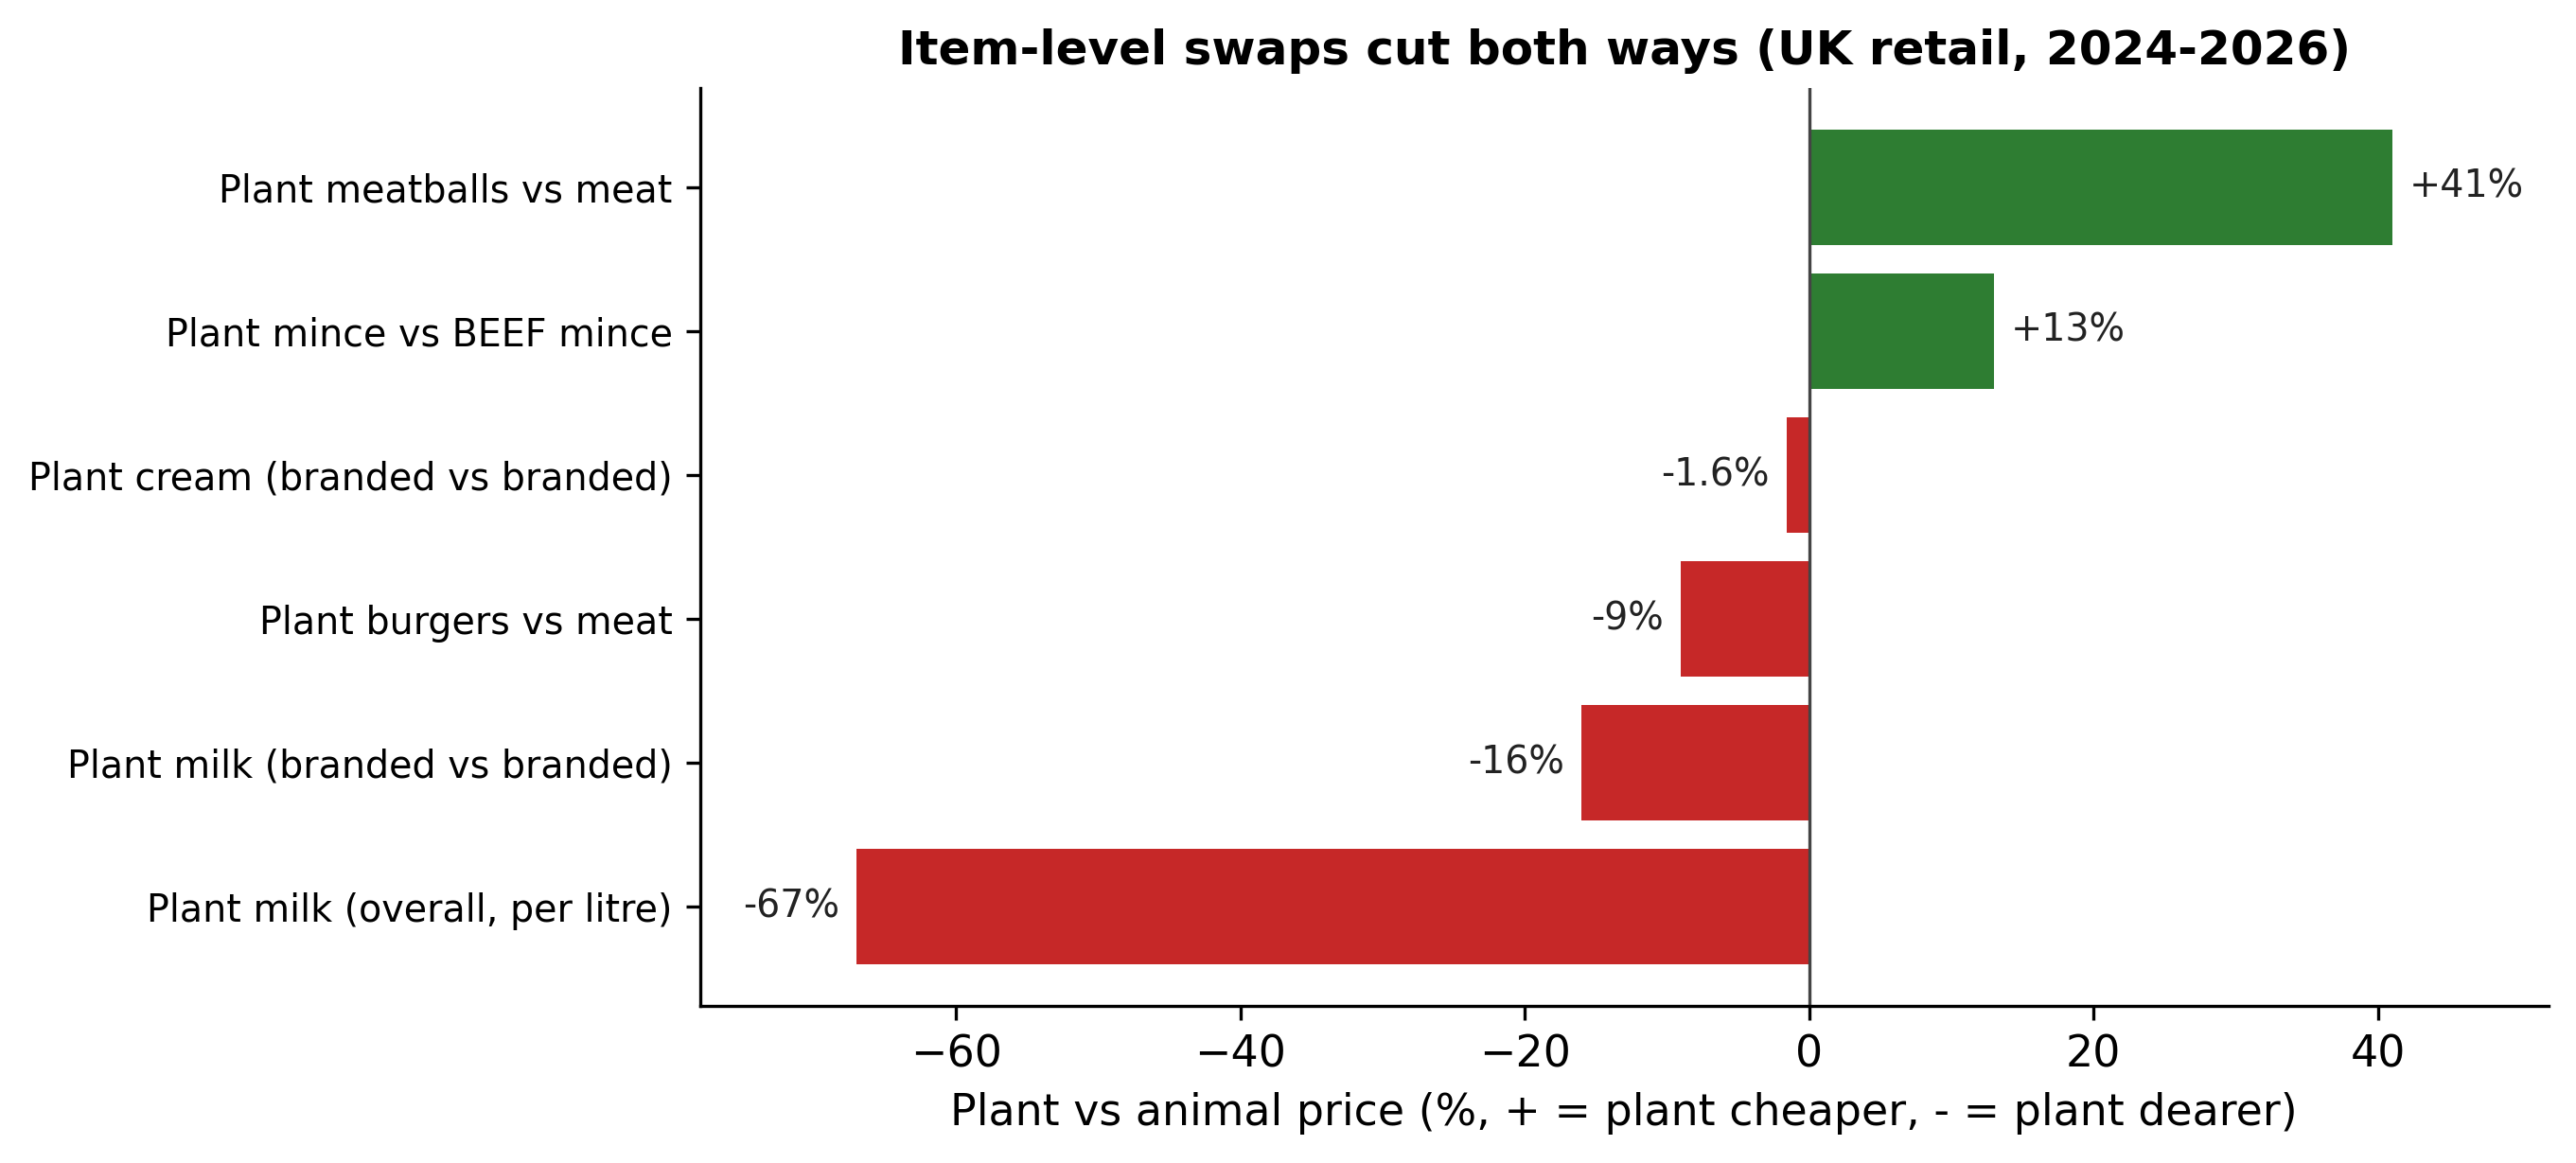
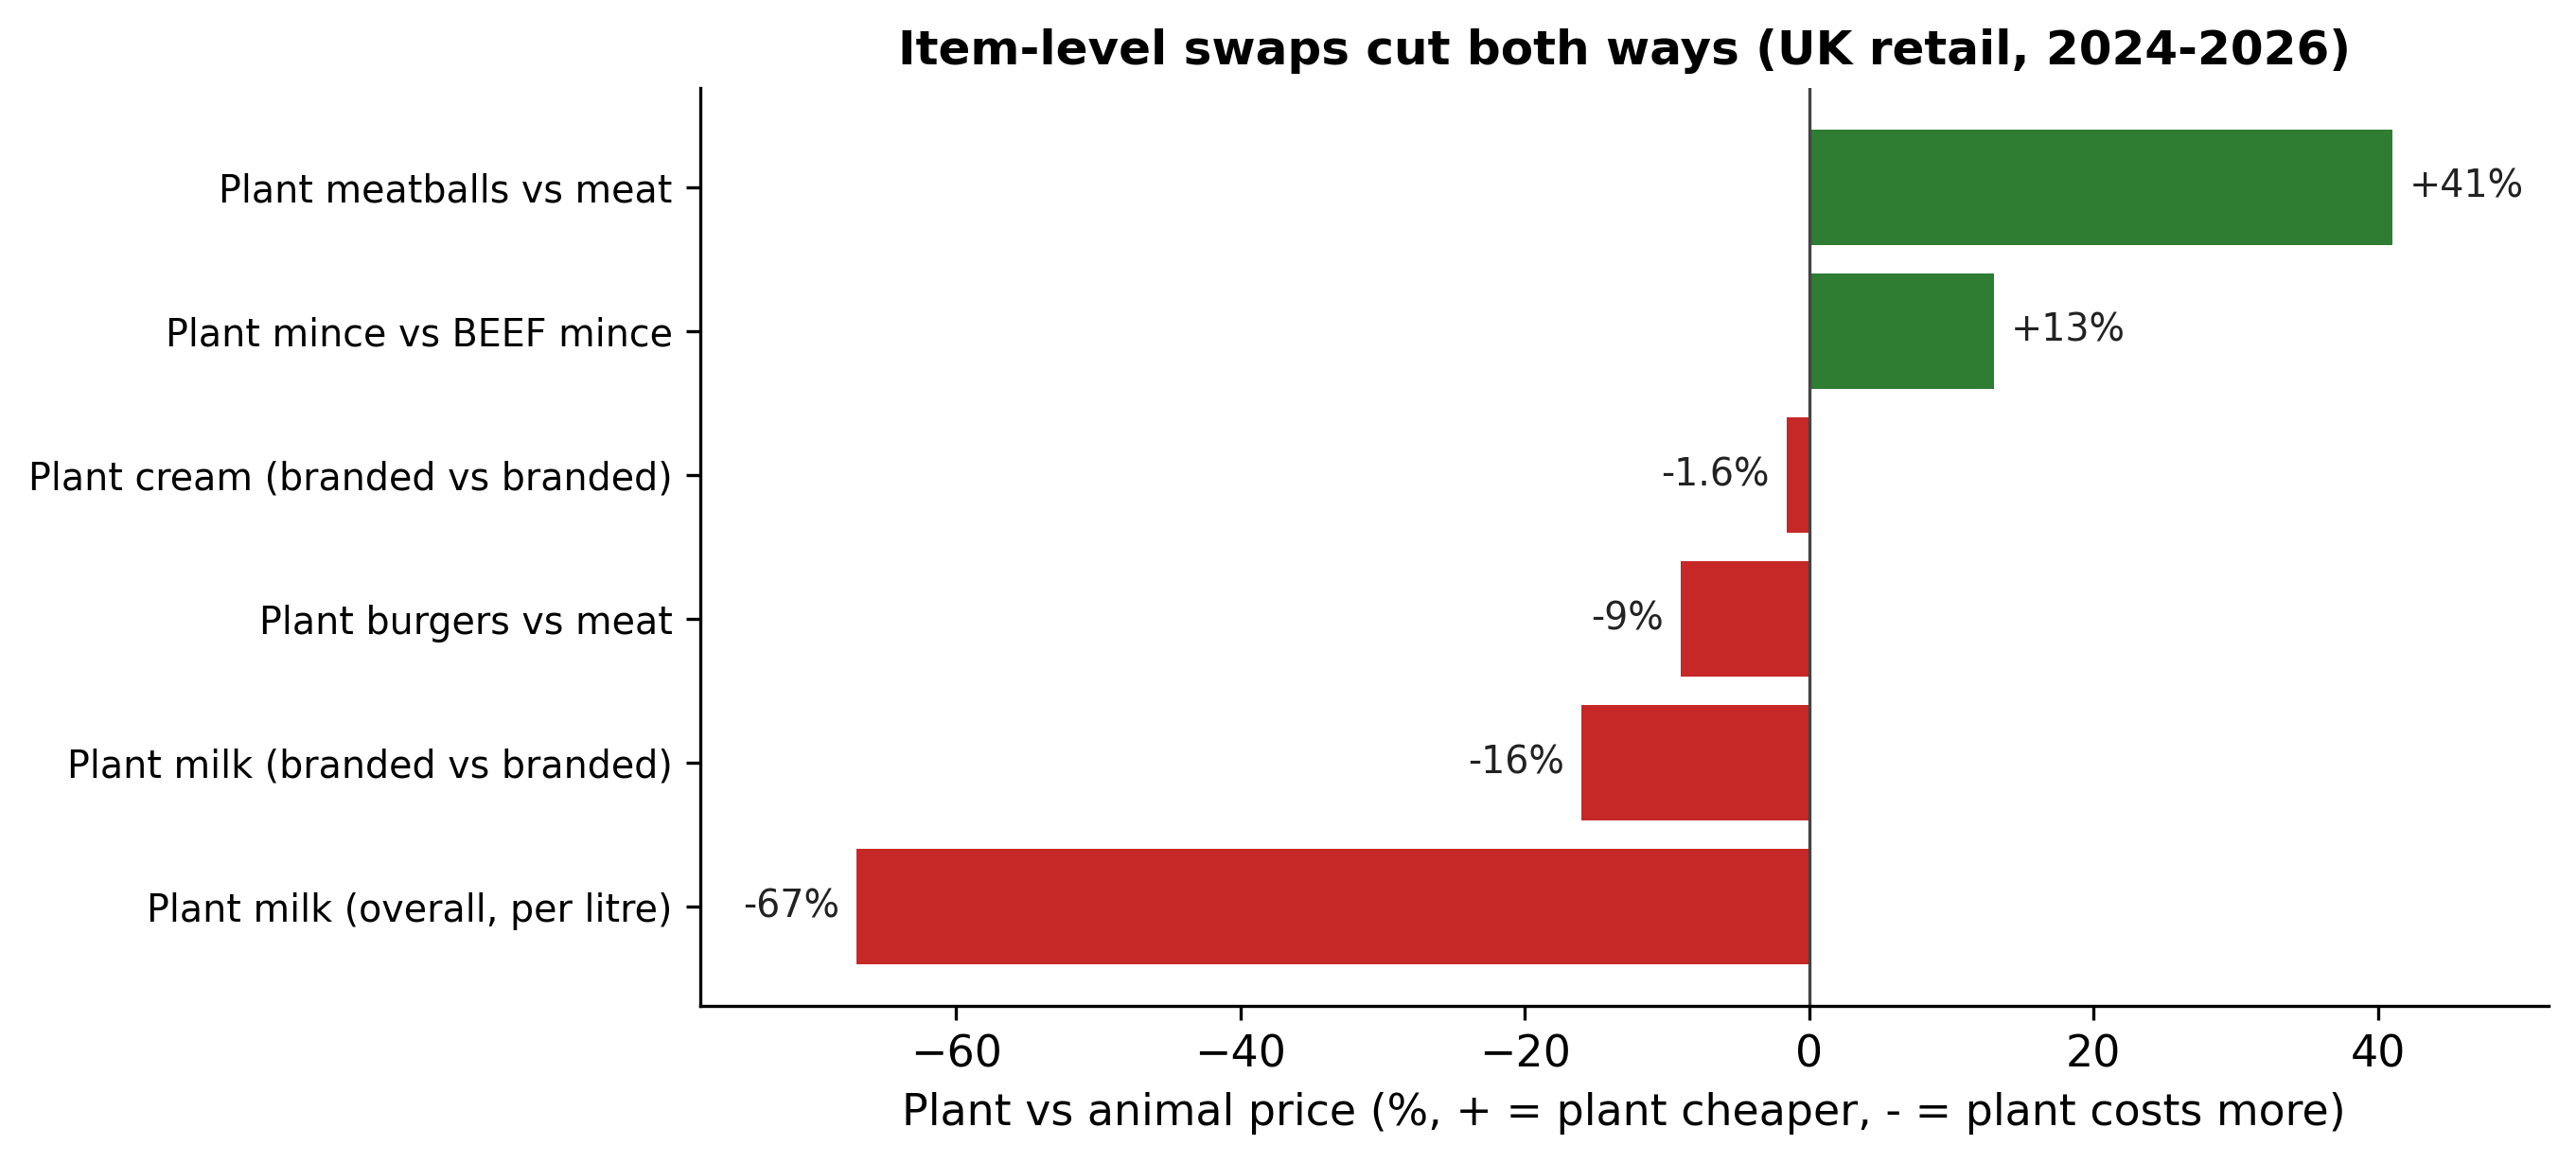
Wording: replace dearer with more expensive in prose, costs more in chart legends
Applies to the research-page notes, retail/wholesale legend swatches, the
meatballs pair note, and the regenerated figure 3 axis label.

Changed region(s): [[0.3435, 0.9276, 0.9056, 0.9894]]

diff --git a/index.html b/index.html
@@ -107,7 +107,7 @@ Hospitals (2024); AHDB (2025, reporting Kantar).</p>
 <p class="fignote">Modelled diet costs at International Comparison Program 2017 prices, energy- and
 nutrient-matched (Springmann et al., 2021). Shaded bands span the high-veg to high-grain variant range
 for the high-income region, from the study's supplementary data (market cost, 2017): vegan 21.5 to 33.6%
-cheaper, vegetarian 26.8 to 31.4% cheaper, pescatarian from 2.5% dearer (high-veg) to near parity
+cheaper, vegetarian 26.8 to 31.4% cheaper, pescatarian from 2.5% more expensive (high-veg) to near parity
 (high-grain, 0.6% cheaper). The flexitarian band (12 to 14%) is the paper's income-group span (14% in
 high-income, 12% in upper-middle-income countries); its tick is the high-income cell (13.7%). Diamonds
 mark the UK (GBR) country cells: flexitarian 17.0% cheaper (95% CI 13.3 to 18.5), vegetarian 26.5 and
@@ -116,7 +116,7 @@ zero (read as parity). Bands are variant ranges, not confidence intervals; value
 prices, not catering prices. Source: Springmann et al. (2021), including the study's supplementary data.</p>
 
 <h2>Item-level price gaps (UK retail, 2024 to 2026)</h2>
-<div class="fig"><img src="assets/research/fig3_item_substitutes.png" alt="Diverging bar chart: plant meatballs 41% and mince 13% cheaper, plant burgers 9% and plant milk 16 to 67% dearer"></div>
+<div class="fig"><img src="assets/research/fig3_item_substitutes.png" alt="Diverging bar chart: plant meatballs 41% and mince 13% cheaper, plant burgers 9% and plant milk 16 to 67% more expensive"></div>
 <p class="fignote">Mince, meatball and burger figures are from a Tesco price snapshot, January to March
 2026, one retailer and one quarter, during a period of rising meat prices in which beef rose fastest
 (supermarket beef prices up more than 10% year on year at the time, lean beef mince up 23%) (GFI Europe,
@@ -124,7 +124,7 @@ prices, not catering prices. Source: Springmann et al. (2021), including the stu
 data (GFI Europe, 2025, based on Circana retail sales and NIQ Homescan panel data): the overall
 per-litre plant-milk premium (67%) is mostly a
 branding-mix artefact, since branded-versus-branded the gap is 16% and branded plant cream is near parity
-(1.6% dearer). Source: GFI Europe (2026, mince and meatballs); GFI Europe (2025, milk and cream).</p>
+(1.6% more expensive). Source: GFI Europe (2026, mince and meatballs); GFI Europe (2025, milk and cream).</p>
 
 <h2>References</h2>
 <ul class="refs">

diff --git a/retail.html b/retail.html
@@ -86,7 +86,7 @@
 
 <h2>Price ratio overview: plant-based / meat, per 100g</h2>
 <div class="legend">Dot = ratio of plant-based price per 100g to the meat equivalent, averaged over the series; the stem shows the distance from parity (1.0, vertical line).
-  <span class="swatch" style="background: var(--pink);"></span>plant-based dearer
+  <span class="swatch" style="background: var(--pink);"></span>plant-based costs more
   <span class="swatch" style="background: var(--sage);"></span>plant-based cheaper or equal
 </div>
 <div class="chart">
@@ -176,7 +176,7 @@
   </tbody>
 </table>
 </div>
-<p class="tablenote">The Tesco pair is frozen on both sides but 12 balls vs a 24-ball pack. Sainsbury's rows verified against Sainsbury's API (its 5% fat variant is dearer, which would push the ratio lower still). Morrisons and Co-op list no own-brand plant meatballs.</p>
+<p class="tablenote">The Tesco pair is frozen on both sides but 12 balls vs a 24-ball pack. Sainsbury's rows verified against Sainsbury's API (its 5% fat variant is more expensive, which would push the ratio lower still). Morrisons and Co-op list no own-brand plant meatballs.</p>
 
 <h2>Ready meals: own-brand plant vs meat</h2>
 <div class="tablewrap">
@@ -287,7 +287,7 @@
 <h2>Trend since Which? (2022)</h2>
 <p>How the plant/meat price ratio moved between the Which? study (average of daily prices, Aug to Oct 2022) and the current series average. The trend is shown in ratios because they are unaffected by general food inflation; nominal per-100g prices are in the table below. Pairs marked * are category-level comparisons where one or both 2022 products have been discontinued or replaced, so those moves partly reflect product turnover, not price changes.</p>
 <div class="legend"><span class="swatch" style="background: #ffffff; border: 2px solid #9aa8a0;"></span>2022 ratio (Which?)
-  <span class="swatch" style="background: var(--pink);"></span>current ratio, plant dearer
+  <span class="swatch" style="background: var(--pink);"></span>current ratio, plant costs more
   <span class="swatch" style="background: var(--sage);"></span>current ratio, plant cheaper or equal
 </div>
 <div class="chart">

diff --git a/wholesale.html b/wholesale.html
@@ -86,7 +86,7 @@
 
 <p>Public-sector and contract caterers buy at wholesale, not retail, so this page tracks the same plant-vs-meat comparison at the two UK foodservice distributors whose product prices are publicly visible without an account: <a href="https://www.jjfoodservice.com">JJ Foodservice</a> (cash-and-carry and delivered wholesale) and <a href="https://www.brake.co.uk">Brakes</a> (contract-catering distribution). Of the other candidates probed (7 Jul 2026), Booker and Costco UK block automated access outright and Bidfood shows prices only to account holders. In the latest scrape (7 Jul 2026), the plant-based product is cheaper or at parity per 100g/100ml in 6 of 11 wholesale pairs.</p>
 <div class="legend">Dot = ratio of plant-based price per 100g/100ml to the meat or standard equivalent; the stem shows the distance from parity (1.0, vertical line).
-  <span class="swatch" style="background: var(--pink);"></span>plant-based dearer
+  <span class="swatch" style="background: var(--pink);"></span>plant-based costs more
   <span class="swatch" style="background: var(--sage);"></span>plant-based cheaper or equal
 </div>
 <div class="chart">